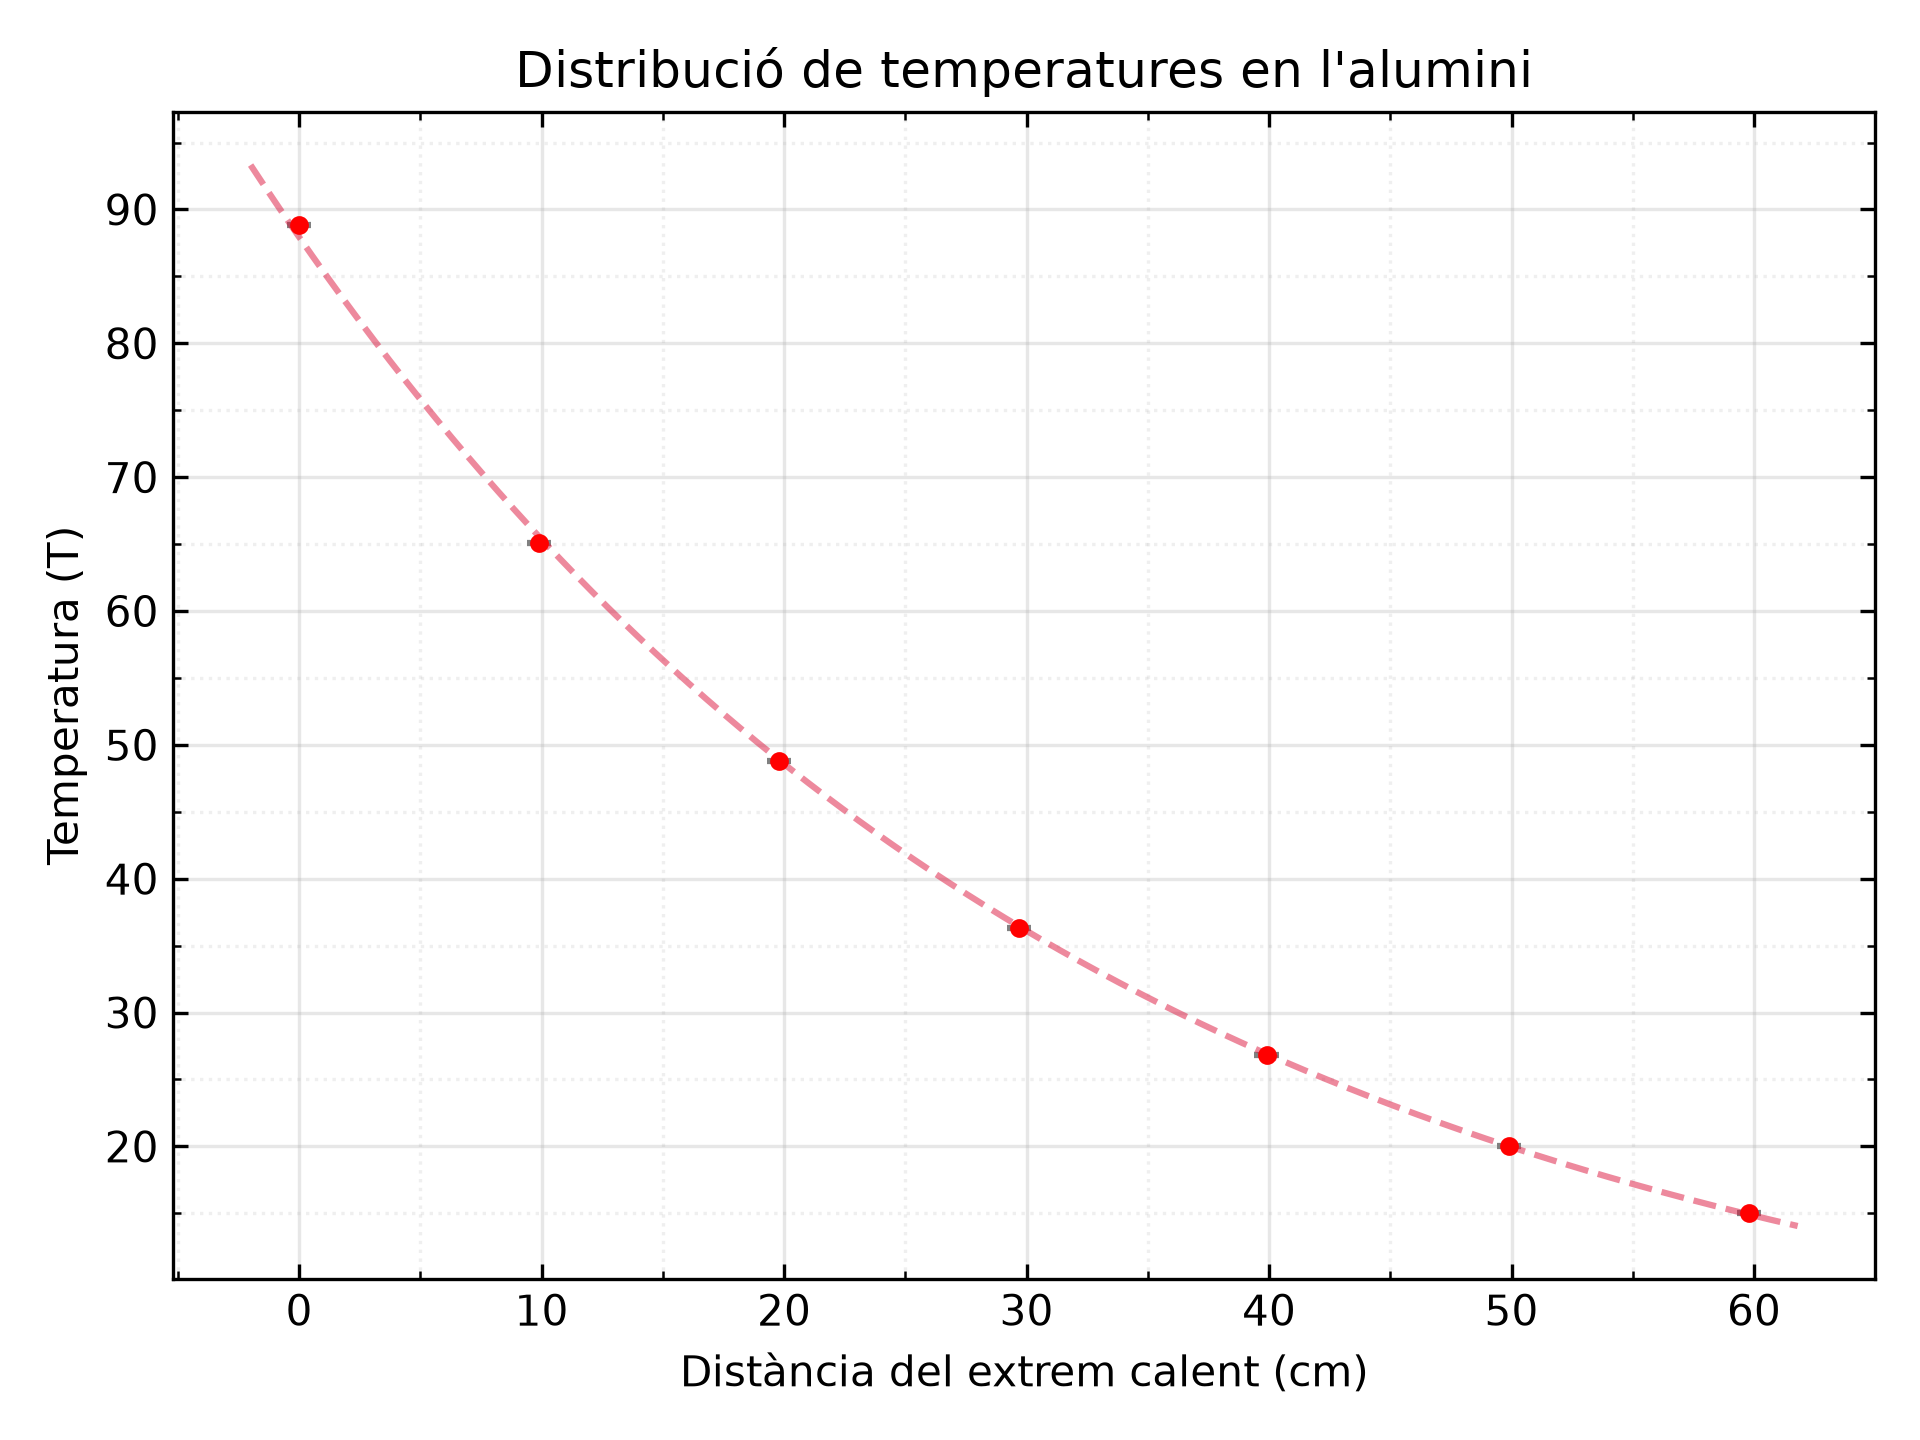
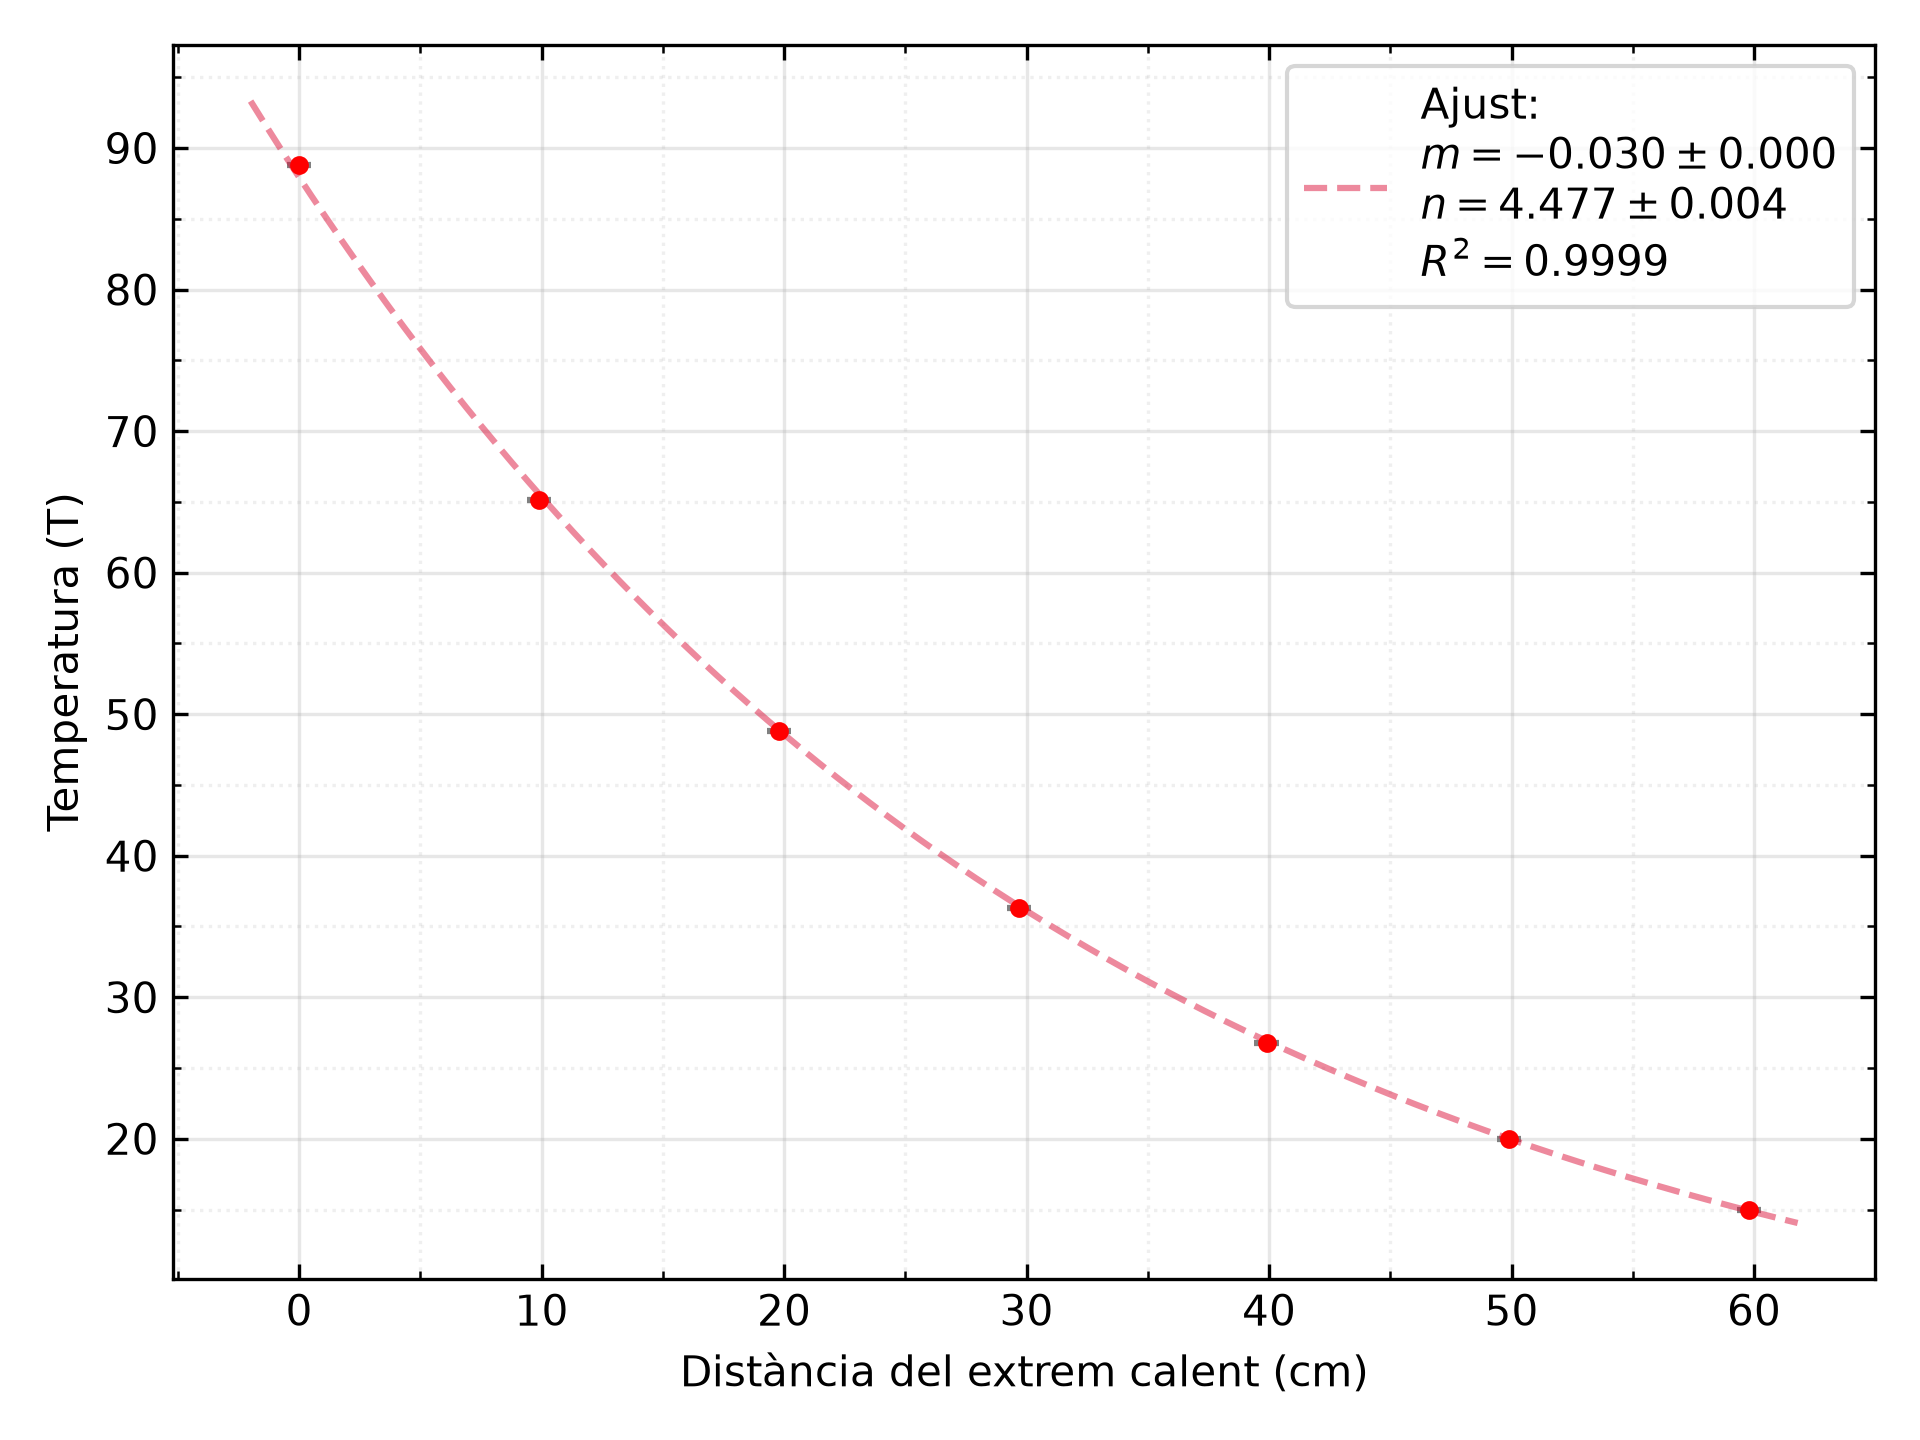
lab termo - P1a i P1b

diff --git a/lab_termo/P1b.py b/lab_termo/P1b.py
@@ -33,7 +33,7 @@ def graph(x, y, xerr=[], yerr=[], name="prova", xname="eix X", yname="eix Y", ti
     # Eixos
     ax.set_xlabel(xname)
     ax.set_ylabel(yname)
-    ax.set_title(title)
+    # ax.set_title(title)
 
     # Grid principal i secundària
     ax.grid(True, which="major", linestyle="-", alpha=0.3)
@@ -61,11 +61,21 @@ def graph(x, y, xerr=[], yerr=[], name="prova", xname="eix X", yname="eix Y", ti
     
 
 
-def graphReg(x, y, xerr=[], yerr=[], name="prova", xname="eix X", yname="eix Y", title="Gràfica"):
+import numpy as np
+import matplotlib.pyplot as plt
+from matplotlib.ticker import AutoMinorLocator
+
+def graphReg(x, y, xerr=[], yerr=[], name="prova", xname="eix X", yname="eix Y",
+             title="Gràfica", n=None):
+    x = np.asarray(x, dtype=float)
+    y = np.asarray(y, dtype=float)
+
     if len(xerr) == 0:
-            xerr = np.zeros(len(x))
+        xerr = np.zeros(len(x))
     if len(yerr) == 0:
         yerr = np.zeros(len(x))
+    xerr = np.asarray(xerr, dtype=float)
+    yerr = np.asarray(yerr, dtype=float)
 
     fig, ax = plt.subplots()
 
@@ -76,7 +86,8 @@ def graphReg(x, y, xerr=[], yerr=[], name="prova", xname="eix X", yname="eix Y",
         fmt="o",
         color="red",
         ecolor="grey",
-        markersize = 3.5
+        markersize=3.5,
+        label="Dades"
     )
 
     idx = np.argsort(x)
@@ -85,24 +96,44 @@ def graphReg(x, y, xerr=[], yerr=[], name="prova", xname="eix X", yname="eix Y",
     xerr = xerr[idx]
     yerr = yerr[idx]
 
-    coef, cov = np.polyfit(lnT[:10], lnP[:10], 1, cov=True)
+    # Punts usats en l'ajust
+    xf = x[:n] if n is not None else x
+    yf = y[:n] if n is not None else y
 
-    pendent = coef[0]
-    ordenada = coef[1]
+    coef, cov = np.polyfit(xf, yf, 1, cov=True)
+    pendent, ordenada = coef
+    err_pendent, err_ordenada = np.sqrt(np.diag(cov))
+
+    # Coeficient de determinació R²
+    y_ajust = pendent * xf + ordenada
+    ss_res = np.sum((yf - y_ajust) ** 2)
+    ss_tot = np.sum((yf - np.mean(yf)) ** 2)
+    r2 = 1 - ss_res / ss_tot
 
     eps = 0.2
+    etiqueta = (
+        f"Regressió lineal:\n"
+        f"$Pendent = {pendent:.3f} \\pm {err_pendent:.3f}$\n"
+        f"$Ordenada = {ordenada:.3f} \\pm {err_ordenada:.3f}$\n"
+        f"$R^2 = {r2:.4f}$"
+    )
     ax.plot(
-        [x[0]-eps, x[-1]+eps], [pendent*(x[0]-eps)+ordenada, pendent*(x[-1]+eps)+ordenada],
+        [x[0]-eps, x[-1]+eps],
+        [pendent*(x[0]-eps)+ordenada, pendent*(x[-1]+eps)+ordenada],
         linestyle="--",
         color="crimson",
-        alpha=0.2
+        alpha=0.6,
+        label=etiqueta
     )
 
     # Eixos
     ax.set_xlabel(xname)
     ax.set_ylabel(yname)
-    ax.set_title(title)
-    
+    # ax.set_title(title)
+
+    # Llegenda
+    ax.legend(loc="best", fontsize=8, framealpha=0.9)
+
     # Grid principal i secundària
     ax.grid(True, which="major", linestyle="-", alpha=0.3)
     ax.grid(True, which="minor", linestyle=":", alpha=0.2)
@@ -121,9 +152,10 @@ def graphReg(x, y, xerr=[], yerr=[], name="prova", xname="eix X", yname="eix Y",
     )
 
     plt.tight_layout()
-    # plt.axis("equal")
     plt.savefig(f"GraficsP1b/{name}.png", dpi=300)
     plt.show()
+
+    return pendent, err_pendent, ordenada, err_ordenada, r2
 
 import numpy as np
 
@@ -164,58 +196,74 @@ ordenada = coef[1]
 inc_pendent = np.sqrt(cov[0, 0])
 inc_ordenada = np.sqrt(cov[1, 1])
 
+# Coeficient de determinació R²
+y_ajust = pendent * lnT[11:] + ordenada
+ss_res = np.sum((lnRad[11:] - y_ajust) ** 2)
+ss_tot = np.sum((lnRad[11:] - np.mean(lnRad[11:])) ** 2)
+r2 = 1 - ss_res / ss_tot
+
+print("___Q7___")
 print(f"Pendent = {pendent:.3f} ± {inc_pendent:.3f}")
 print(f"Ordenada = {ordenada:.3f} ± {inc_ordenada:.3f}\n")
 
+etiqueta = "\n".join([
+    "Ajust:",
+    rf"$\mathrm{{Exponent}} = {pendent:.3f} \pm {inc_pendent:.3f}$",
+    rf"$e\sigma A = {ordenada:.2f} \pm {inc_ordenada:.2f}$",
+    rf"$R^2 = {r2:.4f}$",
+])
 
 eix_x = np.linspace(int(T[11]-50), int(T[-1]+50), 1000)
-plt.plot(eix_x, eix_x**pendent * np.e**ordenada, color="crimson", linestyle="--", alpha=0.5)
+plt.plot(eix_x, eix_x**pendent * np.e**ordenada, color="crimson", linestyle="--", alpha=0.5, label=etiqueta)
+
+plt.legend(loc="best")
 
 plt.savefig(f"GraficsP1b/Q7b.png", dpi=300)
 
 
 graph(lnT, lnRad, line=True, name="Q8", xname=r"$\ln (T)$", yname=r"$\ln (P)$", title=r"$\ln (P)$ en funció de $\ln(T)$")
 
-# #Q 2-5
+#Q 2-5
 
-# lnP = np.log(P)
+lnP = np.log(P)
 
-# lnT = np.log(T-T_ambient)
+lnT = np.log(T-T_ambient)
 
-# inc_lnP = inc_P/P
+inc_lnP = inc_P/P
 
-# inc_lnT = (inc_T + 0.1)/(T-T_ambient)
+inc_lnT = (inc_T + 0.1)/(T-T_ambient)
 
 
-# graph(lnT, lnP, xerr=inc_lnT, yerr=inc_lnP, name="Q4", xname=r"$\ln(\Delta T)$", yname=r"$\ln(P)$", title=r"$\ln(P)$ en funció de $\ln(\Delta T)$, amb $\Delta T = T-T_a$")
+graph(lnT, lnP, xerr=inc_lnT, yerr=inc_lnP, name="Q4", xname=r"$\ln(\Delta T)$", yname=r"$\ln(P)$", title=r"$\ln(P)$ en funció de $\ln(\Delta T)$, amb $\Delta T = T-T_a$")
 
-# idx = np.argsort(T)
-# lnT = lnT[idx]
-# lnP = lnP[idx]
+idx = np.argsort(T)
+lnT = lnT[idx]
+lnP = lnP[idx]
 
-# for i in range(len(lnP)-3):
-#     coef, cov = np.polyfit(lnT[:-i-1], lnP[:-i-1], 1, cov=True)
+for i in range(len(lnP)-3):
+    coef, cov = np.polyfit(lnT[:-i-1], lnP[:-i-1], 1, cov=True)
 
-#     pendent = coef[0]
-#     ordenada = coef[1]
+    pendent = coef[0]
+    ordenada = coef[1]
 
-#     inc_pendent = np.sqrt(cov[0, 0])
-#     inc_ordenada = np.sqrt(cov[1, 1])
+    inc_pendent = np.sqrt(cov[0, 0])
+    inc_ordenada = np.sqrt(cov[1, 1])
 
-#     # print(f"Agafant desde n={i}:")
-#     # print(f"Pendent = {pendent:.3f} ± {inc_pendent:.3f}")
-#     # print(f"Ordenada = {ordenada:.3f} ± {inc_ordenada:.3f}\n")
+    # print(f"Agafant desde n={i}:")
+    # print(f"Pendent = {pendent:.3f} ± {inc_pendent:.3f}")
+    # print(f"Ordenada = {ordenada:.3f} ± {inc_ordenada:.3f}\n")
 
-# coef, cov = np.polyfit(lnT[:10], lnP[:10], 1, cov=True)
+coef, cov = np.polyfit(lnT[:10], lnP[:10], 1, cov=True)
 
-# pendent = coef[0]
-# ordenada = coef[1]
+pendent = coef[0]
+ordenada = coef[1]
 
-# inc_pendent = np.sqrt(cov[0, 0])
-# inc_ordenada = np.sqrt(cov[1, 1])
+inc_pendent = np.sqrt(cov[0, 0])
+inc_ordenada = np.sqrt(cov[1, 1])
 
-# print(f"Pendent = {pendent:.3f} ± {inc_pendent:.3f}")
-# print(f"Ordenada = {ordenada:.3f} ± {inc_ordenada:.3f}\n")
+print("___Q5___")
+print(f"Pendent = {pendent:.3f} ± {inc_pendent:.3f}")
+print(f"Ordenada = {ordenada:.3f} ± {inc_ordenada:.3f}\n")
 
-# graphReg(lnT[:10], lnP[:10], xerr=inc_lnT[idx][:10], yerr=inc_lnP[idx][:10], name="Q5", xname=r"$\ln(\Delta T)$", yname=r"$\ln(P)$", title=r"$\ln(P)$ en funció de $\ln(\Delta T)$, regressió lineal (10 primers punts)")
+graphReg(lnT[:10], lnP[:10], xerr=inc_lnT[idx][:10], yerr=inc_lnP[idx][:10], name="Q5", xname=r"$\ln(\Delta T)$", yname=r"$\ln(P)$", title=r"$\ln(P)$ en funció de $\ln(\Delta T)$, regressió lineal (10 primers punts)")
 

diff --git a/lab_termo/P1a.py b/lab_termo/P1a.py
@@ -31,7 +31,7 @@ def graph(x, y, xerr=[], yerr=[], name="prova", xname="eix X", yname="eix Y", ti
     # Eixos
     ax.set_xlabel(xname)
     ax.set_ylabel(yname)
-    ax.set_title(title)
+    # ax.set_title(title)
 
     # Grid principal i secundària
     ax.grid(True, which="major", linestyle="-", alpha=0.3)
@@ -74,7 +74,12 @@ fig, ax = graph(x, T, xerr=inc_x, yerr=inc_T, autoSave=False, xname="Distància 
 
 lnT = np.log(T)
 
-coef, cov = np.polyfit(x, lnT, 1, cov=True)
+#regressió
+
+xf=x
+yf=lnT
+
+coef, cov = np.polyfit(xf, yf, 1, cov=True)
 
 pendent = coef[0]
 ordenada = coef[1]
@@ -82,14 +87,27 @@ ordenada = coef[1]
 inc_pendent = np.sqrt(cov[0, 0])
 inc_ordenada = np.sqrt(cov[1, 1])
 
+y_ajust = pendent * xf + ordenada
+ss_res = np.sum((yf - y_ajust) ** 2)
+ss_tot = np.sum((yf - np.mean(yf)) ** 2)
+r2 = 1 - ss_res / ss_tot
+
+etiqueta = "\n".join([
+    "Ajust:",
+    rf"$m = {pendent:.3f} \pm {inc_pendent:.3f}$",
+    rf"$n = {ordenada:.3f} \pm {inc_ordenada:.3f}$",
+    rf"$R^2 = {r2:.4f}$",
+])
+
 print("____Ferro____")
 print(f"Pendent = {pendent:.5f} ± {inc_pendent:.5f}")
 print(f"Ordenada = {ordenada:.3f} ± {inc_ordenada:.3f}\n")
 
 
-eix_x = np.linspace(x[0]-2, x[-1]+2, 1000)
-plt.plot(eix_x, np.e**(ordenada) * np.e**(pendent*eix_x), linestyle="--", color="crimson", alpha=0.5)
+eix_x = np.linspace(xf[0]-2, xf[-1]+2, 1000)
+plt.plot(eix_x, np.e**(ordenada) * np.e**(pendent*eix_x), linestyle="--", color="crimson", alpha=0.5, label=etiqueta)
 
+plt.legend(loc="best")
 plt.savefig("GraficsP1a/g1.png", dpi=300)
 
 
@@ -107,7 +125,12 @@ fig, ax = graph(x, T, xerr=inc_x, yerr=inc_T, autoSave=False, xname="Distància 
 
 lnT = np.log(T)
 
-coef, cov = np.polyfit(x, lnT, 1, cov=True)
+#regressió
+
+xf=x
+yf=lnT
+
+coef, cov = np.polyfit(xf, yf, 1, cov=True)
 
 pendent = coef[0]
 ordenada = coef[1]
@@ -115,15 +138,27 @@ ordenada = coef[1]
 inc_pendent = np.sqrt(cov[0, 0])
 inc_ordenada = np.sqrt(cov[1, 1])
 
+y_ajust = pendent * xf + ordenada
+ss_res = np.sum((yf - y_ajust) ** 2)
+ss_tot = np.sum((yf - np.mean(yf)) ** 2)
+r2 = 1 - ss_res / ss_tot
+
+etiqueta = "\n".join([
+    "Ajust:",
+    rf"$m = {pendent:.3f} \pm {inc_pendent:.3f}$",
+    rf"$n = {ordenada:.3f} \pm {inc_ordenada:.3f}$",
+    rf"$R^2 = {r2:.4f}$",
+])
+
 print("____Alumini____")
 print(f"Pendent = {pendent:.5f} ± {inc_pendent:.5f}")
 print(f"Ordenada = {ordenada:.3f} ± {inc_ordenada:.3f}\n")
 
 
 eix_x = np.linspace(x[0]-2, x[-1]+2, 1000)
-plt.plot(eix_x, np.e**(ordenada) * np.e**(pendent*eix_x), linestyle="--", color="crimson", alpha=0.5)
+plt.plot(eix_x, np.e**(ordenada) * np.e**(pendent*eix_x), linestyle="--", color="crimson", alpha=0.5, label=etiqueta)
 
-
+plt.legend(loc="best")
 plt.savefig("GraficsP1a/g2.png", dpi=300)
 
 
@@ -141,7 +176,12 @@ fig, ax = graph(x, T, xerr=inc_x, yerr=inc_T, autoSave=False, xname="Distància 
 
 lnT = np.log(T)
 
-coef, cov = np.polyfit(x, lnT, 1, cov=True)
+#regressió
+
+xf=x
+yf=lnT
+
+coef, cov = np.polyfit(xf, yf, 1, cov=True)
 
 pendent = coef[0]
 ordenada = coef[1]
@@ -149,13 +189,25 @@ ordenada = coef[1]
 inc_pendent = np.sqrt(cov[0, 0])
 inc_ordenada = np.sqrt(cov[1, 1])
 
+y_ajust = pendent * xf + ordenada
+ss_res = np.sum((yf - y_ajust) ** 2)
+ss_tot = np.sum((yf - np.mean(yf)) ** 2)
+r2 = 1 - ss_res / ss_tot
+
+etiqueta = "\n".join([
+    "Ajust:",
+    rf"$m = {pendent:.3f} \pm {inc_pendent:.3f}$",
+    rf"$n = {ordenada:.3f} \pm {inc_ordenada:.3f}$",
+    rf"$R^2 = {r2:.4f}$",
+])
+
 print("____Llautó____")
 print(f"Pendent = {pendent:.5f} ± {inc_pendent:.5f}")
 print(f"Ordenada = {ordenada:.3f} ± {inc_ordenada:.3f}\n")
 
 
 eix_x = np.linspace(x[0]-2, x[-1]+2, 1000)
-plt.plot(eix_x, np.e**(ordenada) * np.e**(pendent*eix_x), linestyle="--", color="crimson", alpha=0.5)
+plt.plot(eix_x, np.e**(ordenada) * np.e**(pendent*eix_x), linestyle="--", color="crimson", alpha=0.5, label=etiqueta)
 
-
+plt.legend(loc="best")
 plt.savefig("GraficsP1a/g3.png", dpi=300)
